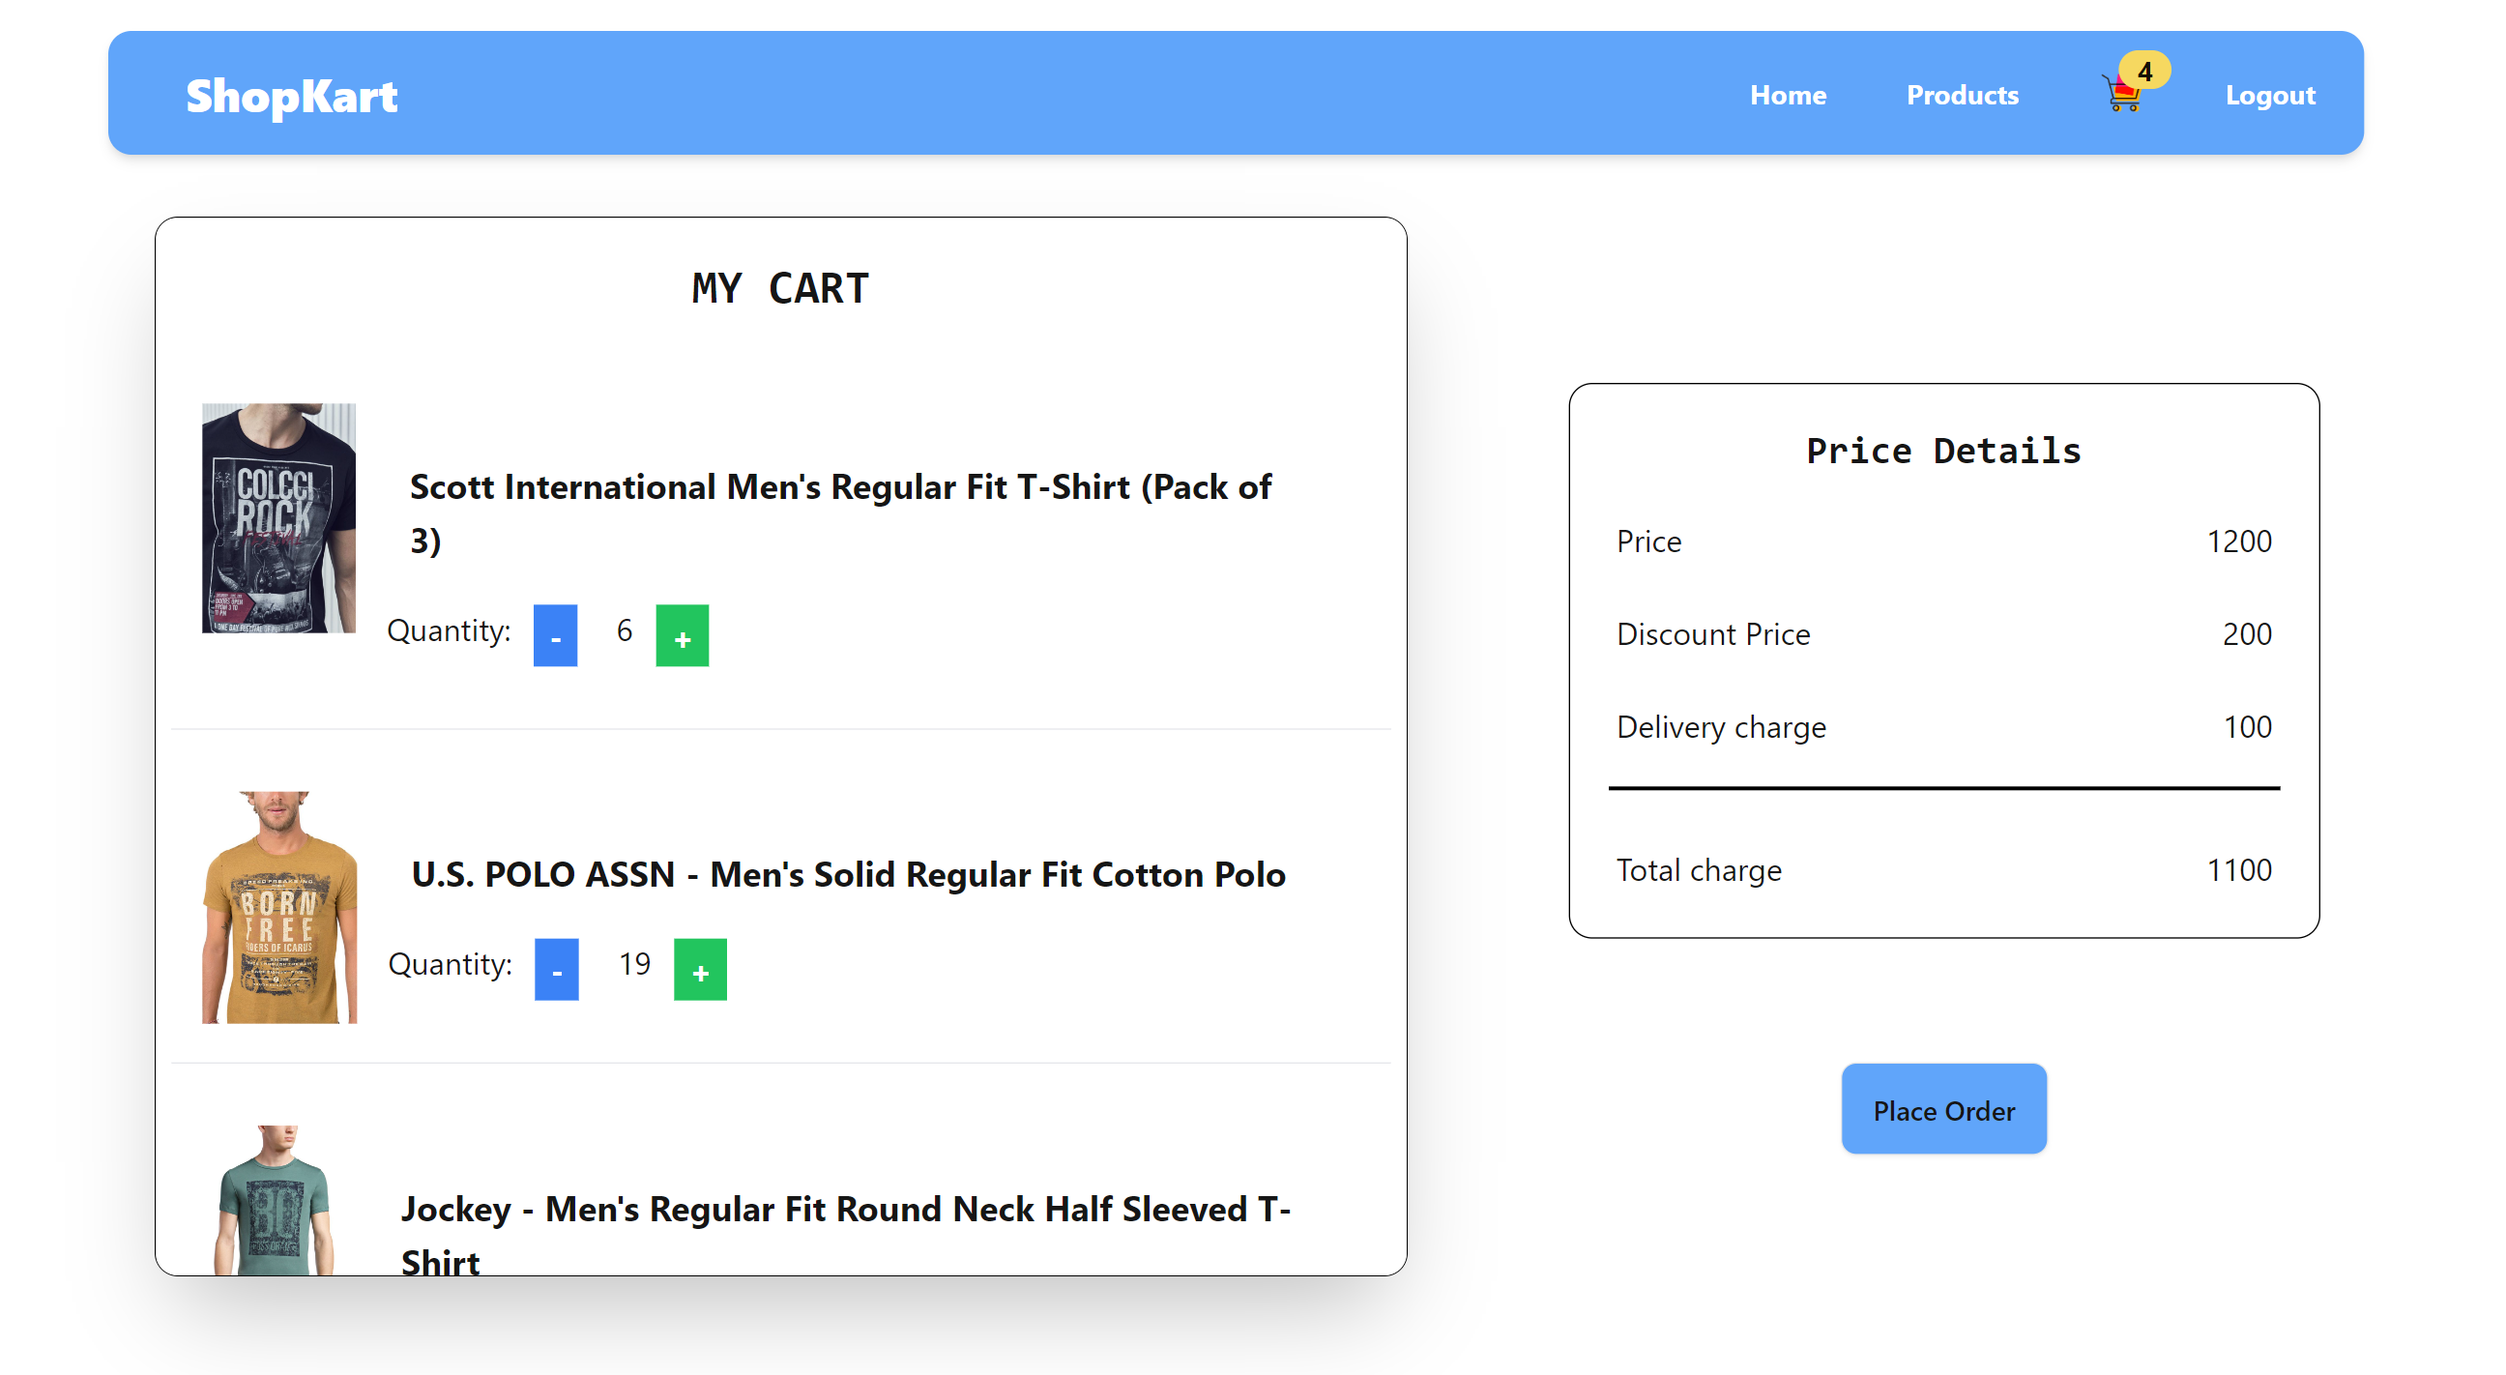
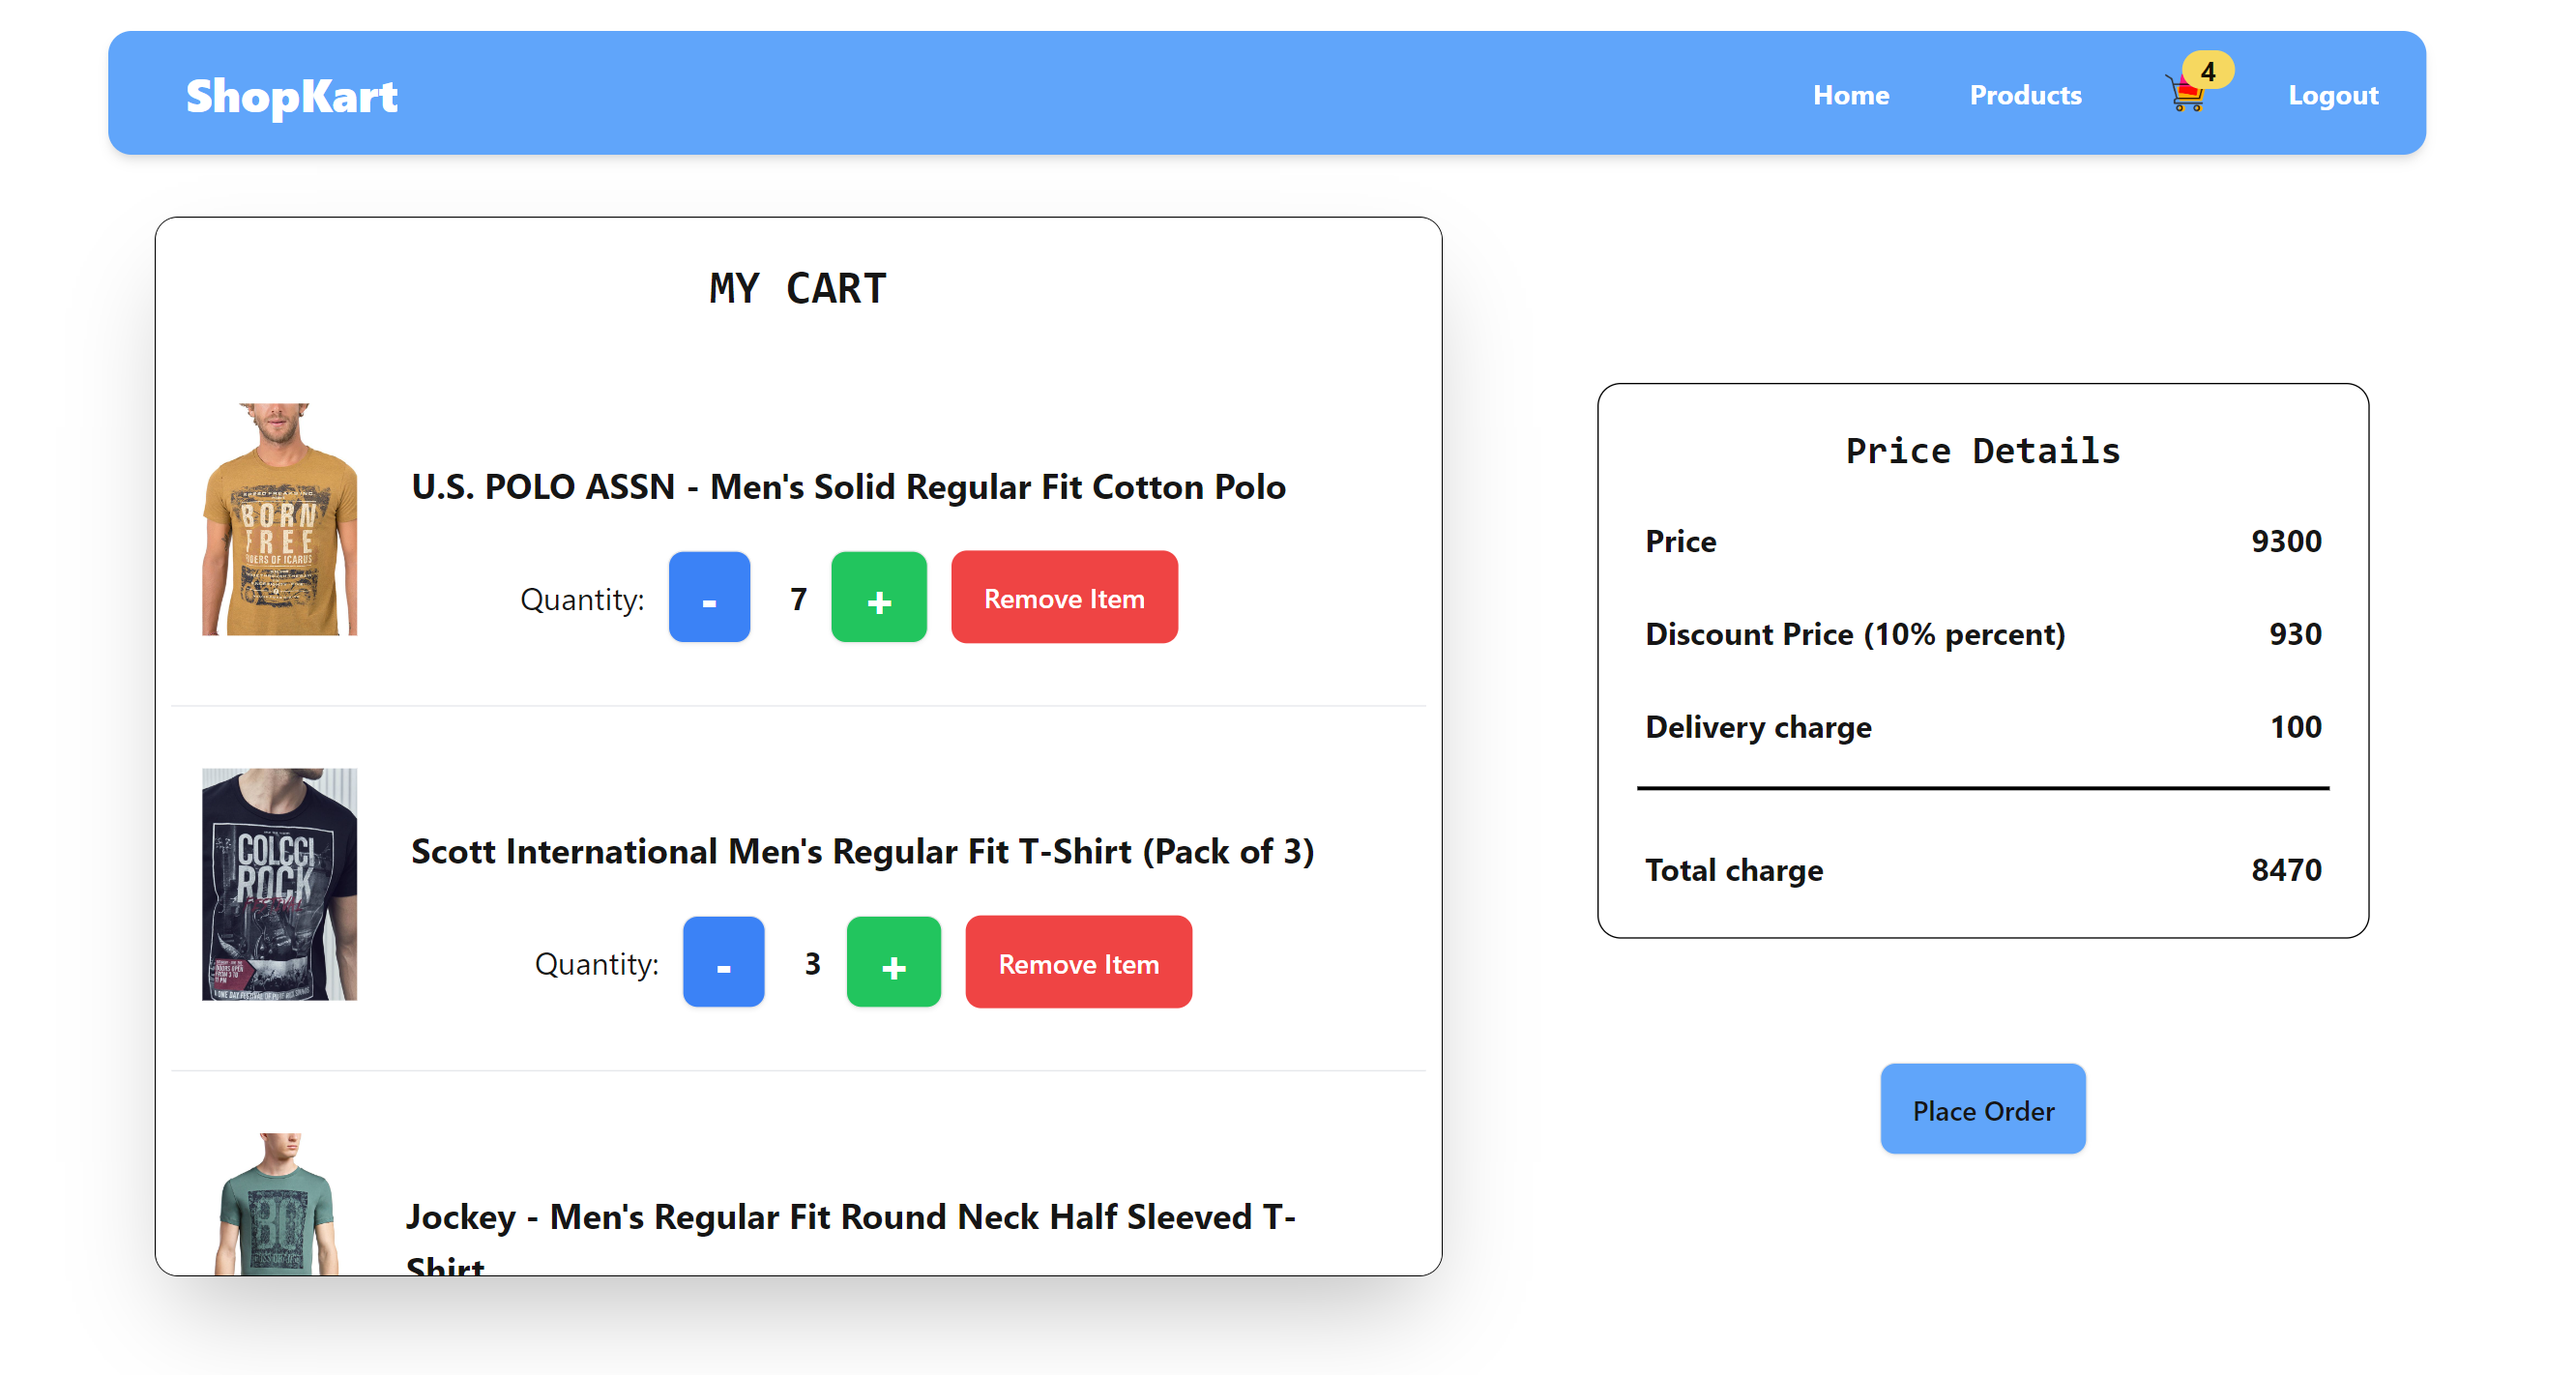
addedemoimages

diff --git a/src/components/Cart.js b/src/components/Cart.js
@@ -1,13 +1,28 @@
 import React from "react";
 import { useSelector } from "react-redux";
+import { useDispatch } from "react-redux";
 
-const Cart = () => {
+const Cart = (
+  setdisplayproducts,
+  setdisplayhome,
+  setdisplaysignin,
+  setdisplaycart
+) => {
   const totalItems = useSelector((state) => state.totalProducts.items);
   const cartItems = useSelector((state) => state.cart.items);
+  var TotalPrice = 0;
+  const dispatch = useDispatch();
 
   // Function to get product details for a given productId
   const getProductDetails = (productId) => {
     return totalItems[0].find((item) => item.id === productId);
+  };
+
+  const handleclose = () => {
+    setdisplayhome(true);
+    setdisplayproducts(false);
+    setdisplaysignin(false);
+    setdisplaycart(false);
   };
 
   return (
@@ -19,6 +34,11 @@ const Cart = () => {
           </h1>
           {cartItems.map((cartItem) => {
             const productDetails = getProductDetails(cartItem.productId);
+            const amount = parseFloat(productDetails.amount);
+            const quantity = parseInt(cartItem.quantity);
+            console.log(amount, quantity);
+
+            TotalPrice += amount * quantity;
 
             return (
               <div key={cartItem.productId} className="flex p-4 m-2 border-b">
@@ -33,26 +53,50 @@ const Cart = () => {
                   <h2 className="text-lg font-bold p-3">
                     {productDetails.title}
                   </h2>
-                  <div className="flex flex-row gap-3 mt-2">
+                  <div className="flex flex-row  justify-center items-center gap-3 mt-2">
                     <p>Quantity:</p>
                     <button
-                      className="bg-blue-500 text-white font-extrabold px-2 py-1 mr-2"
+                      className="bg-blue-500 btn text-2xl  text-white font-extrabold  mr-2"
                       onClick={() => {
-                        // Implement logic to decrease quantity
                         if (cartItem.quantity > 1) {
+                          // Dispatch an action to decrement the quantity in the Redux store
+                          dispatch({
+                            type: "DECREASE_QUANTITY",
+                            payload: {
+                              productId: cartItem.productId,
+                            },
+                          });
                         }
                       }}
                     >
                       -
                     </button>
-                    <p> {cartItem.quantity}</p>
+                    <p className="font-bold"> {cartItem.quantity}</p>
                     <button
-                      className="bg-green-500 font-extrabold  text-white px-2 py-1"
+                      className="btn bg-green-500 font-extrabold text-2xl  text-white "
                       onClick={() => {
-                        cartItem.quantity += 1;
+                        dispatch({
+                          type: "INCREASE_QUANTITY",
+                          payload: {
+                            productId: cartItem.productId,
+                          },
+                        });
                       }}
                     >
                       +
+                    </button>
+                    <button
+                      className="btn btn-ghost bg-red-500 text-white"
+                      onClick={() => {
+                        dispatch({
+                          type: "REMOVE_FROM_CART",
+                          payload: {
+                            productId: cartItem.productId,
+                          },
+                        });
+                      }}
+                    >
+                      Remove Item
                     </button>
                   </div>
                 </div>
@@ -67,22 +111,22 @@ const Cart = () => {
             <h1 className="text-xl font-extrabold flex justify-center font-mono items-center p-2">
               Price Details
             </h1>
-            <div className="flex justify-between items-end m-2 p-1">
+            <div className="flex justify-between font-bold items-end m-2 p-1">
               <p>Price</p>
-              <p>1200</p>
+              <p>{TotalPrice}</p>
             </div>
-            <div className="flex justify-between items-end m-2 p-1">
-              <p>Discount Price</p>
-              <p>200</p>
+            <div className="flex justify-between font-bold items-end m-2 p-1">
+              <p>Discount Price (10% percent)</p>
+              <p>{TotalPrice * 0.1}</p>
             </div>
-            <div className="flex justify-between items-end m-2 p-1 ">
+            <div className="flex justify-between font-bold items-end m-2 p-1 ">
               <p>Delivery charge</p>
               <p>100</p>
             </div>
             <hr className="border-t-2 border-black m-2 p-1"></hr>
-            <div className="flex justify-between items-end m-2 p-1">
+            <div className="flex justify-between font-bold items-end m-2 p-1">
               <p>Total charge</p>
-              <p>1100</p>
+              <p>{TotalPrice - TotalPrice * 0.1 + 100}</p>
             </div>
           </div>
           <label for="my_modal_6" class="btn bg-blue-400">
@@ -95,7 +139,7 @@ const Cart = () => {
               <h3 class="font-bold text-lg">Dear Customer</h3>
               <p class="py-4">Your Order Has Been Placed Successfully</p>
               <div class="modal-action">
-                <label for="my_modal_6" class="btn">
+                <label for="my_modal_6" class="btn" onClick={handleclose}>
                   Close!
                 </label>
               </div>

diff --git a/src/redux/cartReducer.js b/src/redux/cartReducer.js
@@ -10,13 +10,38 @@ const cartReducer = (state = initialState, action) => {
       );
 
       if (existingIndex !== -1) {
-        // Product already exists in the cart, update the quantity
         state.items[existingIndex].quantity += action.payload.quantity || 1;
       } else {
-        // Product doesn't exist, add it to the cart
         state.items = [...state.items, action.payload];
       }
       return state;
+    case "DECREASE_QUANTITY":
+      return {
+        ...state,
+        items: state.items.map((cartItem) =>
+          cartItem.productId === action.payload.productId &&
+          cartItem.quantity > 1
+            ? { ...cartItem, quantity: cartItem.quantity - 1 }
+            : cartItem
+        ),
+      };
+
+    case "INCREASE_QUANTITY":
+      return {
+        ...state,
+        items: state.items.map((cartItem) =>
+          cartItem.productId === action.payload.productId
+            ? { ...cartItem, quantity: cartItem.quantity + 1 }
+            : cartItem
+        ),
+      };
+    case "REMOVE_FROM_CART":
+      return {
+        ...state,
+        items: state.items.filter(
+          (cartItem) => cartItem.productId !== action.payload.productId
+        ),
+      };
 
     default:
       return state;

diff --git a/src/App.js b/src/App.js
@@ -93,7 +93,14 @@ const App = () => {
             setdisplaycart={setdisplaycart}
           />
         )}
-        {displaycart && <Cart />}
+        {displaycart && (
+          <Cart
+            setdisplayproducts={setdisplayproducts}
+            setdisplayhome={setdisplayhome}
+            setdisplaysignin={setdisplaysignin}
+            setdisplaycart={setdisplaycart}
+          />
+        )}
         <div></div>
       </div>
     </>
